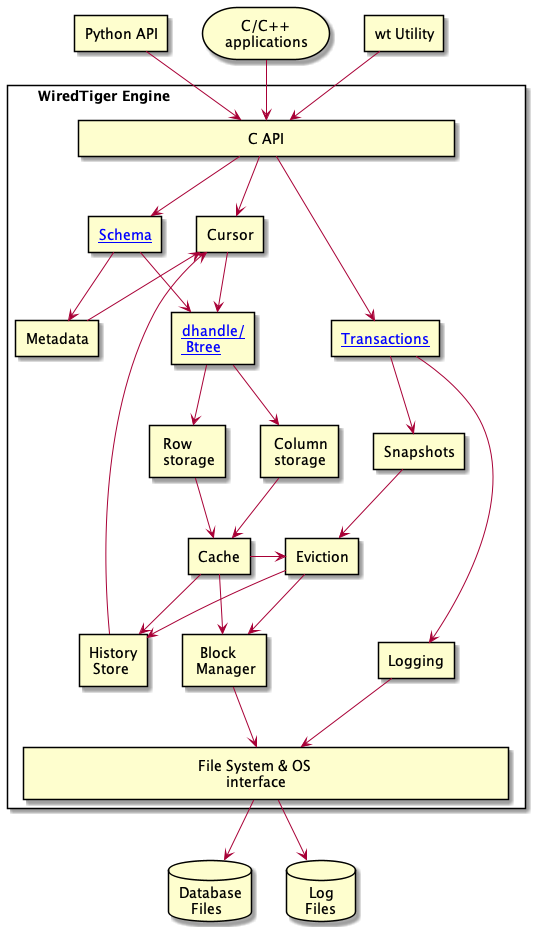
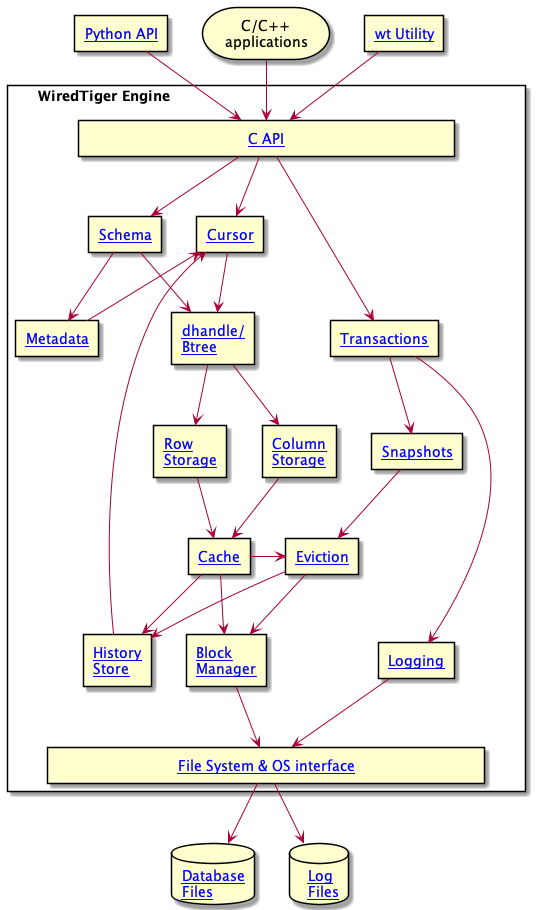
WT-6916 Create stub subpages for architecture guide.

diff --git a/dist/docs_data.py b/dist/docs_data.py
@@ -11,15 +11,68 @@ class ArchDocPage:
 # List of all architecture subsections
 ##########################################
 arch_doc_pages = [
+    ArchDocPage('arch-block',
+        ['WT_BLOCK', 'WT_BLOCK_CKPT', 'WT_BLOCK_DESC', 'WT_BLOCK_HEADER',
+         'WT_BM', 'WT_EXTLIST'],
+        ['src/include/block.h', 'src/include/block_inline.h',
+         'src/block/']),
+    ArchDocPage('arch-cache',
+        ['WT_CACHE', 'WT_CACHE_POOL'],
+        ['src/include/cache.h', 'src/include/cache_inline.h']),
+    ArchDocPage('arch-column',
+        ['WT_BTREE'],
+        ['src/include/btree.h']),
+    ArchDocPage('arch-cursor',
+        ['WT_CURSOR', 'WT_CURSOR_BACKUP', 'WT_CURSOR_BTREE', 'WT_CURSOR_BULK',
+         'WT_CURSOR_DATA_SOURCE', 'WT_CURSOR_DUMP', 'WT_CURSOR_INDEX',
+         'WT_CURSOR_LOG', 'WT_CURSOR_METADATA', 'WT_CURSOR_STAT'],
+        ['src/include/cursor.h', 'src/include/cursor_inline.h',
+         'src/cursor/']),
+    ArchDocPage('arch-data-file',
+        ['WT_CELL'],
+        ['src/include/block.h', 'src/include/btmem.h',
+         'src/include/cell.h', 'src/include/cell_inline.h',
+         'src/reconcile/rec_col.c', 'src/reconcile/rec_row.c']),
     ArchDocPage('arch-dhandle',
         ['WT_BTREE', 'WT_DHANDLE'],
         ['src/include/btree.h', 'src/include/dhandle.h',
          'src/conn/conn_dhandle.c', 'src/session/session_dhandle.c']),
+    ArchDocPage('arch-eviction',
+        ['WT_EVICT_ENTRY', 'WT_EVICT_QUEUE'],
+        ['src/include/cache.h',
+         'src/evict/']),
+    ArchDocPage('arch-fs-os',
+        ['WT_FILE_SYSTEM'],
+        ['src/include/os.h', 'src/include/os_fhandle_inline.h',
+         'src/include/os_fs_inline.h', 'src/include/os_fstream_inline.h',
+         'src/include/os_windows.h',
+         'src/os_posix/', 'src/os_win/']),
+    ArchDocPage('arch-hs',
+        ['WT_CURSOR_HS'],
+        ['src/history/']),
+    ArchDocPage('arch-log-file',
+        ['WT_LOGSLOT', 'WT_LOG_RECORD', 'WT_LSN'],
+        ['src/include/log.h', 'src/log/']),
+    ArchDocPage('arch-logging',
+        ['WT_CURSOR_LOG', 'WT_LOG', 'WT_LOGSLOT', 'WT_LOG_RECORD', 'WT_LSN'],
+        ['src/include/log.h', 'src/include/log_inline.h', 'src/log/']),
+    ArchDocPage('arch-metadata',
+        [],
+        ['src/include/meta.h', 'src/meta/']),
+    ArchDocPage('arch-python',
+        [],
+        ['lang/python/']),
+    ArchDocPage('arch-row',
+        ['WT_BTREE'],
+        ['src/include/btree.h']),
     ArchDocPage('arch-schema',
         ['WT_COLGROUP', 'WT_INDEX', 'WT_LSM_TREE', 'WT_TABLE'],
         ['src/include/intpack_inline.h', 'src/include/packing_inline.h',
          'src/include/schema.h',
          'src/lsm/', 'src/packing/', 'src/schema/']),
+    ArchDocPage('arch-snapshot',
+        ['WT_TXN'],
+        ['src/include/txn.h']),
     ArchDocPage('arch-transaction',
         ['WT_TXN', 'WT_TXN_GLOBAL', 'WT_TXN_OP', 'WT_TXN_SHARED'],
         ['src/include/txn.h', 'src/include/txn_inline.h', 'src/txn/']),

diff --git a/examples/python/ex_access.py b/examples/python/ex_access.py
@@ -27,6 +27,7 @@
 # OTHER DEALINGS IN THE SOFTWARE.
 #
 
+#! [python simple example]
 import os
 from wiredtiger import wiredtiger_open
 
@@ -53,3 +54,4 @@ for key, value in cursor:
     print('Got record: %s : %s' % (key, value))
 
 conn.close()
+#! [python simple example]
